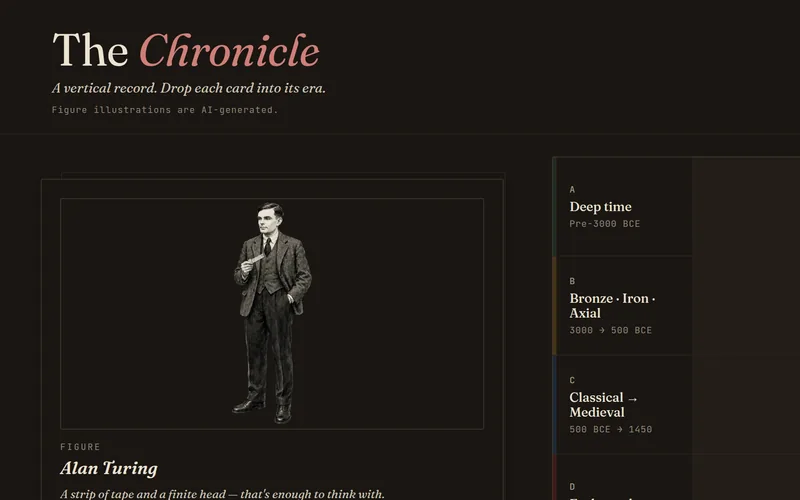
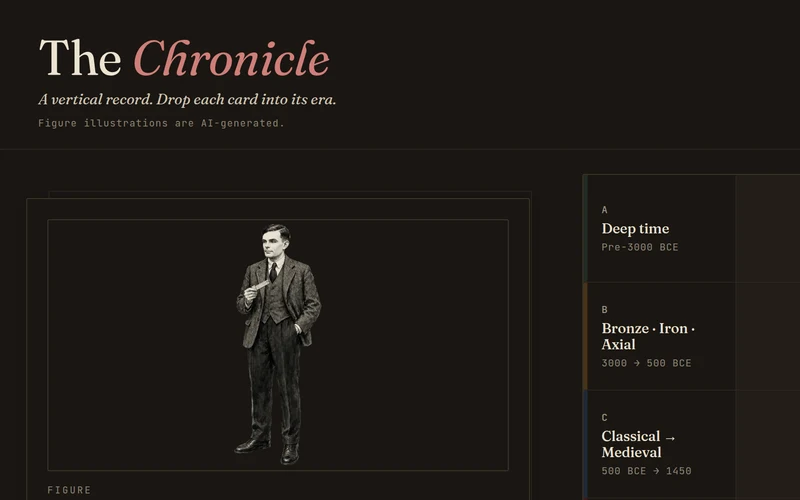
Polish from the detail review: chart crops, gallery tiles, spacing
- Re-export the readability and decision-model charts with an even white
  margin, so no axis title or tick label is cut off (also drops the
  paper's panel letter from the enlarged readability figure)
- Re-crop the Chronicle and Timeline tiles: no names cut at the edges,
  no half-cut era band in dark mode, no app one-liner; phones use the
  same 5:3 crop as desktop
- On phones all three gallery tiles get their label underneath
- One gap between consecutive sections instead of two stacked paddings
  (the space above About was double the others)
- Keep the three hero pills on one row at 360px, cap thumbnail width on
  large phones, zoom-in cursor on images that enlarge, and keep
  "AI development" together

Claude-Session: https://claude.ai/code/session_016X2hVgoFM3faTfJ78ANs1P

diff --git a/assets/css/style.css b/assets/css/style.css
@@ -281,6 +281,17 @@ a:hover {
 	color: var(--accent);
 }
 
+@media (width < 24em) {
+	.pill-links {
+		gap: 0.375rem;
+	}
+
+	.pill-links a {
+		gap: 0.4rem;
+		padding-inline: 0.7rem 0.8rem;
+	}
+}
+
 @media (min-width: 46em) {
 	/* Portrait beside the name, so the work starts on the first screen */
 	.hero {
@@ -305,7 +316,11 @@ a:hover {
 /* Sections */
 
 .section {
-	padding-block: clamp(2.5rem, 5vw, 4rem);
+	padding-block: clamp(3rem, 5vw, 4rem);
+}
+
+.section + .section {
+	padding-top: 0;
 }
 
 .section-head {
@@ -467,20 +482,24 @@ a:hover {
 }
 
 @media (width < 46em) {
-	/* On phones the small tiles get their labels underneath instead of on top */
-	.pm-shot:not(.pm-shot-main) {
+	/* On phones the tiles get their labels underneath instead of on top */
+	.pm-shot {
 		overflow: visible;
 		margin-bottom: 1.25rem;
 	}
 
-	.pm-shot:not(.pm-shot-main) picture {
+	.pm-shot:not(.pm-shot-main) {
+		aspect-ratio: 5 / 3;
+	}
+
+	.pm-shot picture {
 		position: absolute;
 		inset: 0;
 		overflow: hidden;
 		border-radius: inherit;
 	}
 
-	.pm-shot:not(.pm-shot-main) .pm-shot-label {
+	.pm-shot .pm-shot-label {
 		top: calc(100% + 0.35rem);
 		bottom: auto;
 		left: 0.125rem;
@@ -553,6 +572,16 @@ a:hover {
 	background: var(--surface);
 	box-shadow: 0 0 0 1px var(--rule), var(--shadow);
 	aspect-ratio: 16 / 10;
+}
+
+@media (width < 46em) {
+	.project-media {
+		max-width: 26rem;
+	}
+}
+
+a[data-lightbox] {
+	cursor: zoom-in;
 }
 
 .project-media img {

diff --git a/index.html b/index.html
@@ -205,7 +205,7 @@
 				<div class="section-head">
 					<h2 id="about-heading">About</h2>
 				</div>
-				<p class="about-intro">I’m broadly interested in technology and AI development. Outside of work I enjoy travelling, playing tennis and chess, and listening to post-rock.</p>
+				<p class="about-intro">I’m broadly interested in technology and AI&nbsp;development. Outside of work I enjoy travelling, playing tennis and chess, and listening to post-rock.</p>
 			</div>
 		</section>
 
